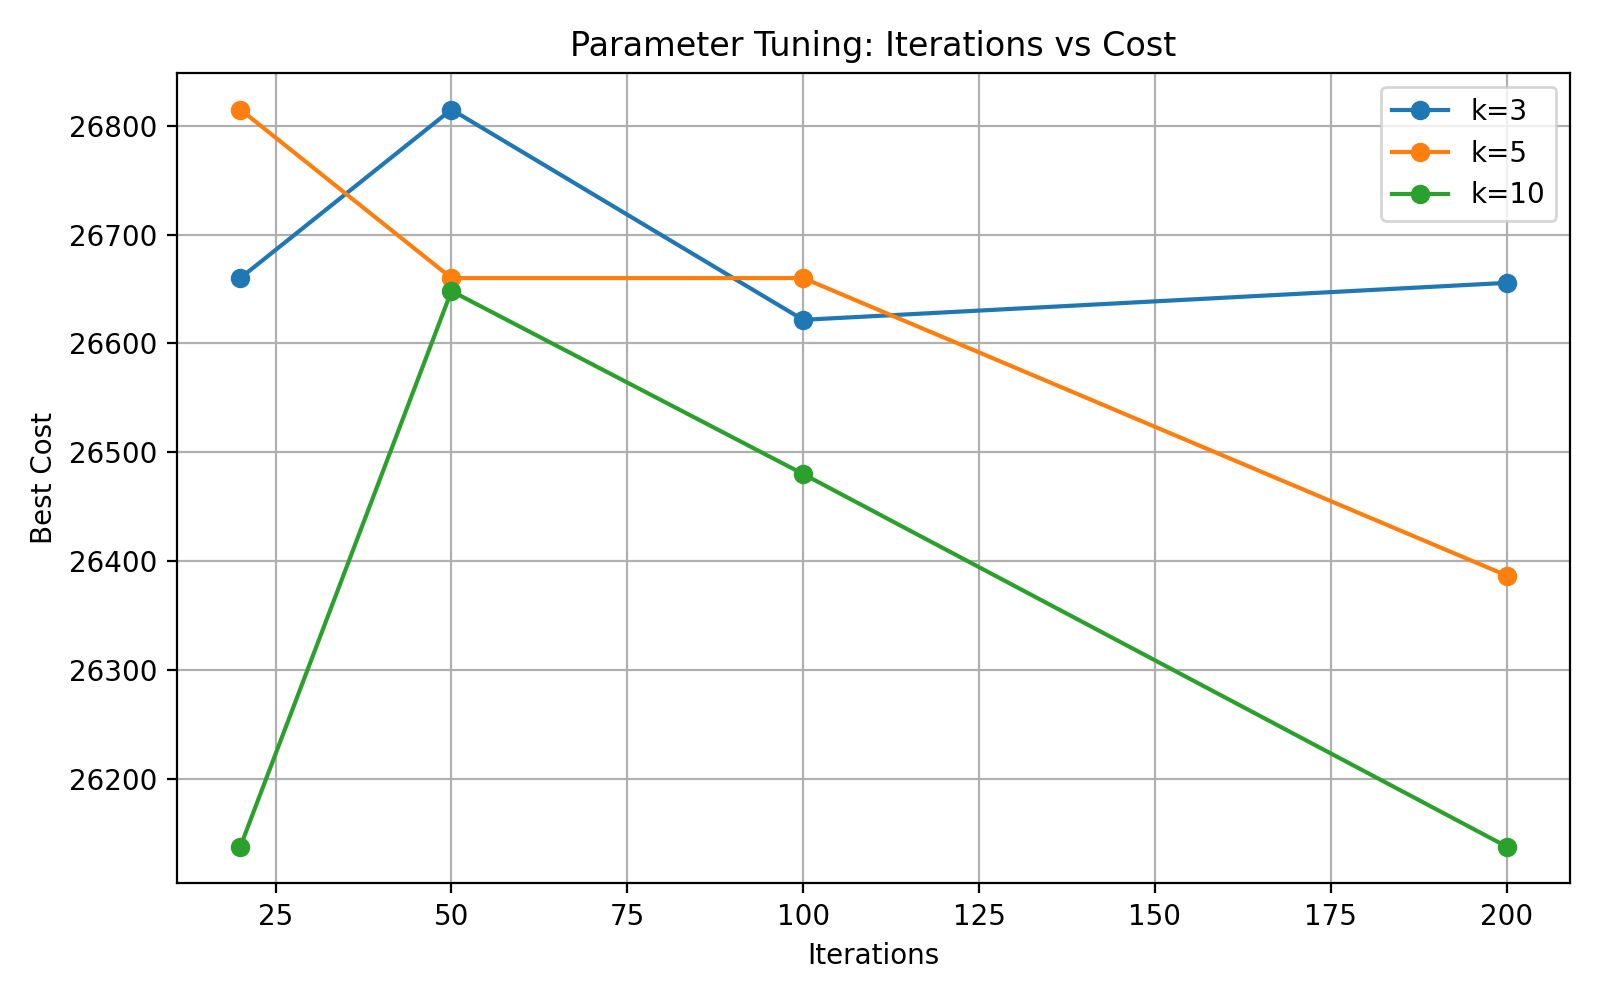
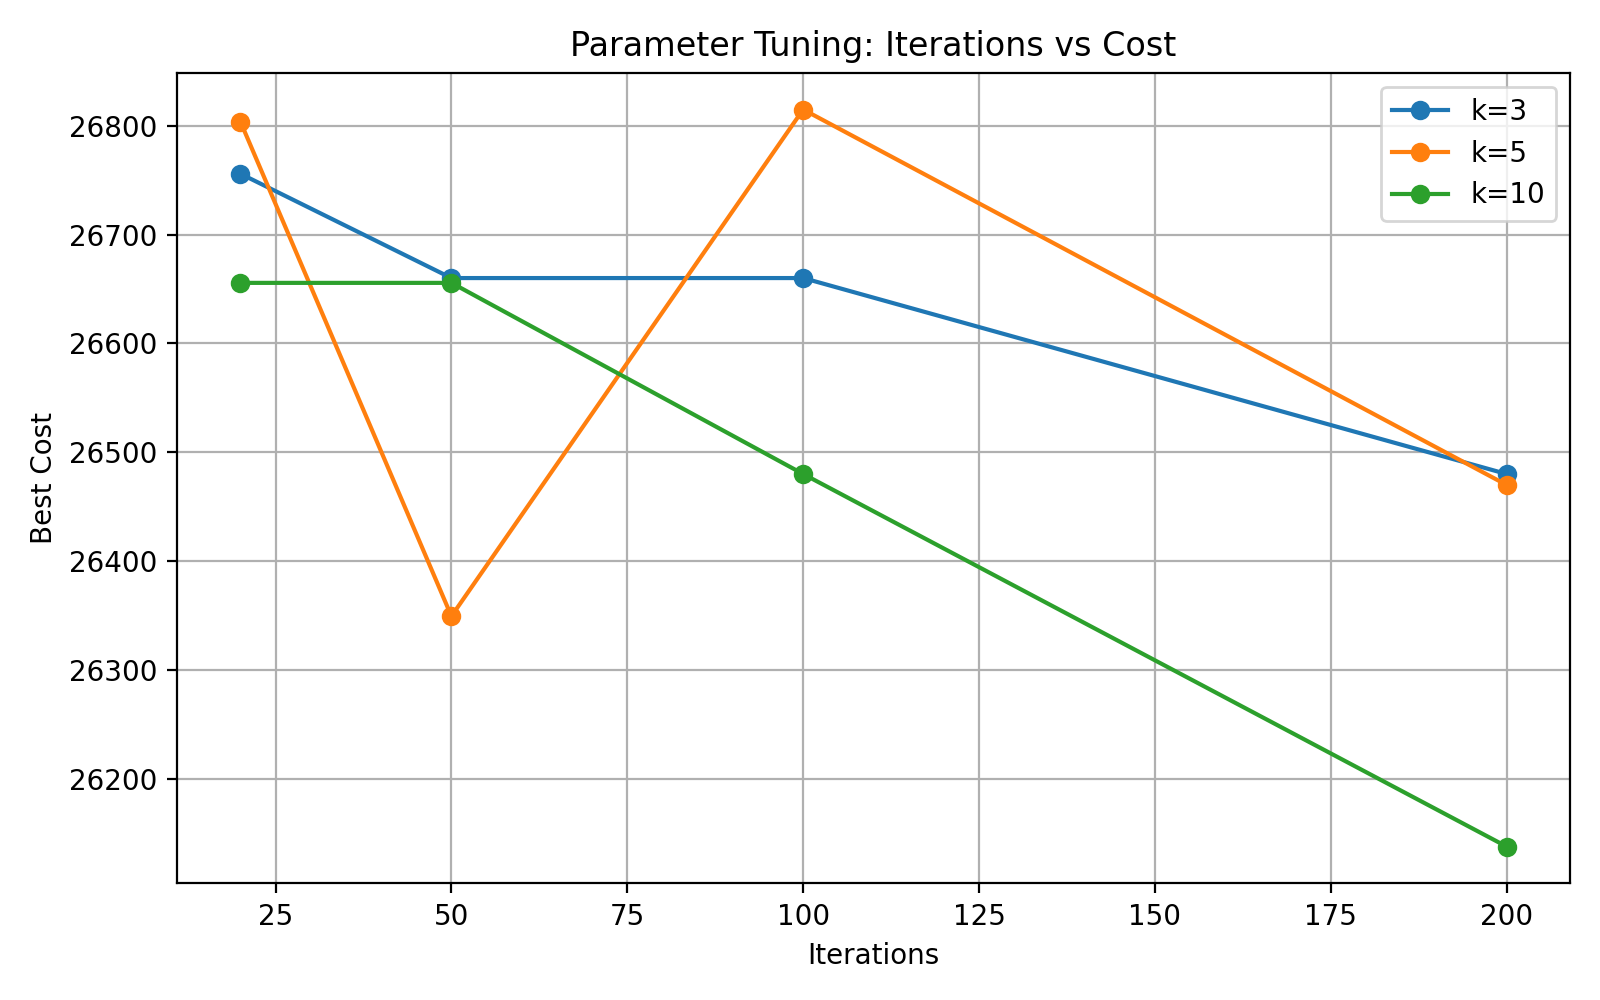
Fix drone-assisted benchmark configuration and update results

diff --git a/experiments/singlecenter_benchmark.py b/experiments/singlecenter_benchmark.py
@@ -25,12 +25,16 @@ def run_instance(instance_file: str, max_iterations: int = 100, k_max: int = 5) 
     instance_path = Path("data") / "singlecenter" / instance_file
 
     env = TSPEnvironment(
-        C1=25.0,
-        C2=1.0,
-        alpha=10.0,
-        beta=10.0,
-    )
+    C1=25.0,
+    C2=1.0,
+    alpha=10.0,
+    beta=10.0,
+    drone_endurance=120.0,
+)
     env.load_from_txt(instance_path)
+    # Override dataset defaults for drone-assisted benchmark scenario
+    env.drone_speed = 2.0
+    env.drone_endurance = 10000.0
 
     solver = GRASPSolver(
         environment=env,

diff --git a/experiments/convergence_analysis.py b/experiments/convergence_analysis.py
@@ -14,10 +14,11 @@ def run_convergence_analysis():
     instance_path = Path("data") / "singlecenter" / SELECTED_INSTANCE
 
     env = TSPEnvironment(
-        C1=25.0,
-        C2=1.0,
-        alpha=10.0,
-        beta=10.0,
+    C1=25.0,
+    C2=1.0,
+    alpha=10.0,
+    beta=10.0,
+    drone_endurance=120.0,
     )
     env.load_from_txt(instance_path)
 

diff --git a/experiments/parallel_benchmark.py b/experiments/parallel_benchmark.py
@@ -22,10 +22,11 @@ SELECTED_INSTANCES = [
 
 def run_instance(instance_file):
     env = TSPEnvironment(
-        C1=25.0,
-        C2=1.0,
-        alpha=10.0,
-        beta=10.0,
+    C1=25.0,
+    C2=1.0,
+    alpha=10.0,
+    beta=10.0,
+    drone_endurance=120.0,
     )
 
     env.load_from_txt(Path("data") / "singlecenter" / instance_file)

diff --git a/experiments/sa_comparison.py b/experiments/sa_comparison.py
@@ -64,10 +64,11 @@ def simulated_annealing(
 
 def main():
     env = TSPEnvironment(
-        C1=25.0,
-        C2=1.0,
-        alpha=10.0,
-        beta=10.0,
+    C1=25.0,
+    C2=1.0,
+    alpha=10.0,
+    beta=10.0,
+    drone_endurance=120.0,
     )
 
     env.load_from_txt(Path("data") / "singlecenter" / INSTANCE)
